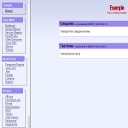
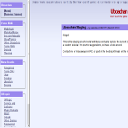
Categories theme v0.2

Changed region(s): [[0.0, 0.0, 1.0, 1.0], [0.0, 0.0, 0.0312, 0.0625], [0.1562, 0.0312, 0.1875, 0.0625]]

diff --git a/templates/themes/categories/theme.php b/templates/themes/categories/theme.php
@@ -59,7 +59,11 @@
 				. '<title>News</title>'
 			. '</head><body>';
 			
-			$body .= '<h1>' . $settings['title'] . '</h1>'
+			$boardlist = createBoardlist();
+			
+			$body .= $boardlist['top']
+				
+			. '<h1>' . $settings['title'] . '</h1>'
 				. '<div class="title">' . ($settings['subtitle'] ? utf8tohtml($settings['subtitle']) : '') . '</div>';
 			
 			$query = query("SELECT * FROM `news` ORDER BY `time` DESC") or error(db_error());
@@ -105,10 +109,16 @@
 				. '</style>'
 				. '<base target="main" />'
 				. '<title>' . $settings['title'] . '</title>'
+				. '<script type="text/javascript">'
+					. 'function removeFrames() {'
+					. 'parent.window.location = "' . $config['root'] . 'news.html"'
+					. '}'
+				. '</script>'
 			. '</head><body>';
 			
 			$body .= '<fieldset><legend>' . $settings['title'] . '</legend><ul>' .
 				'<li><a class="system" href="news.html">[News]</a></li>' .
+				'<li><a class="system" href="javascript:removeFrames()">[Remove Frames]</a></li>' .
 			'</ul></fieldset>';
 			
 			for($cat = 0; $cat < count($config['categories']); $cat++) {

diff --git a/templates/themes/categories/info.php b/templates/themes/categories/info.php
@@ -5,10 +5,10 @@
 	$theme['name'] = 'Categories';
 	// Description (you can use Tinyboard markup here)
 	$theme['description'] = 
-'Group-ordered, category-aware modification of the Frameset theme.
+'Group-ordered, category-aware modification of the Frameset theme, with removable sidebar frame.
 
 Requires $config[\'boards\'] and $config[\'categories\'].';
-	$theme['version'] = 'v0.1';
+	$theme['version'] = 'v0.2';
 	
 	// Theme configuration	
 	$theme['config'] = Array();
